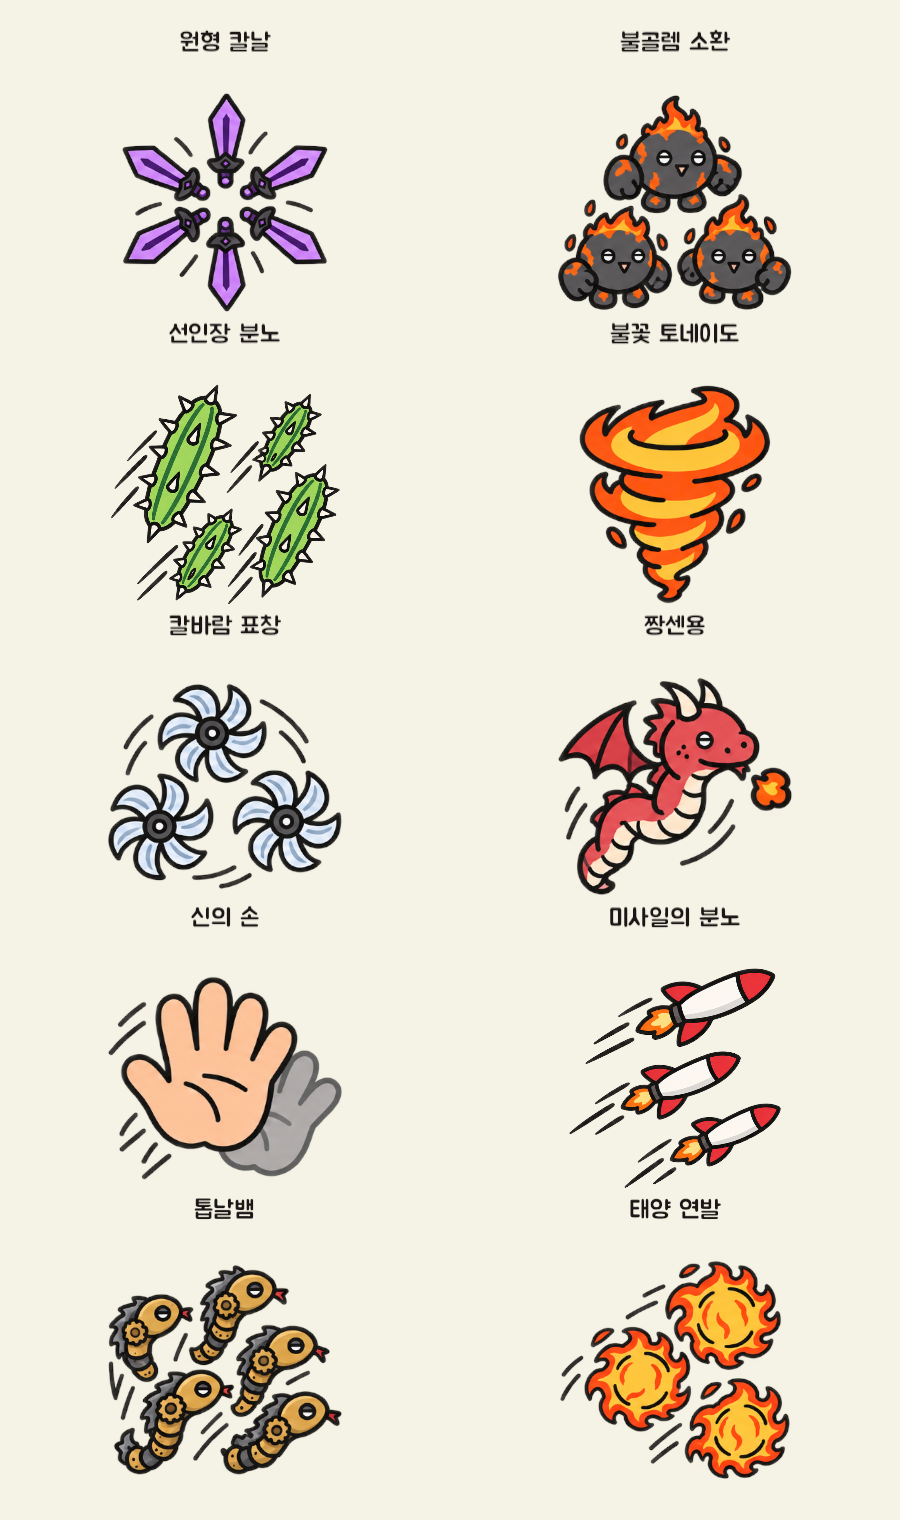
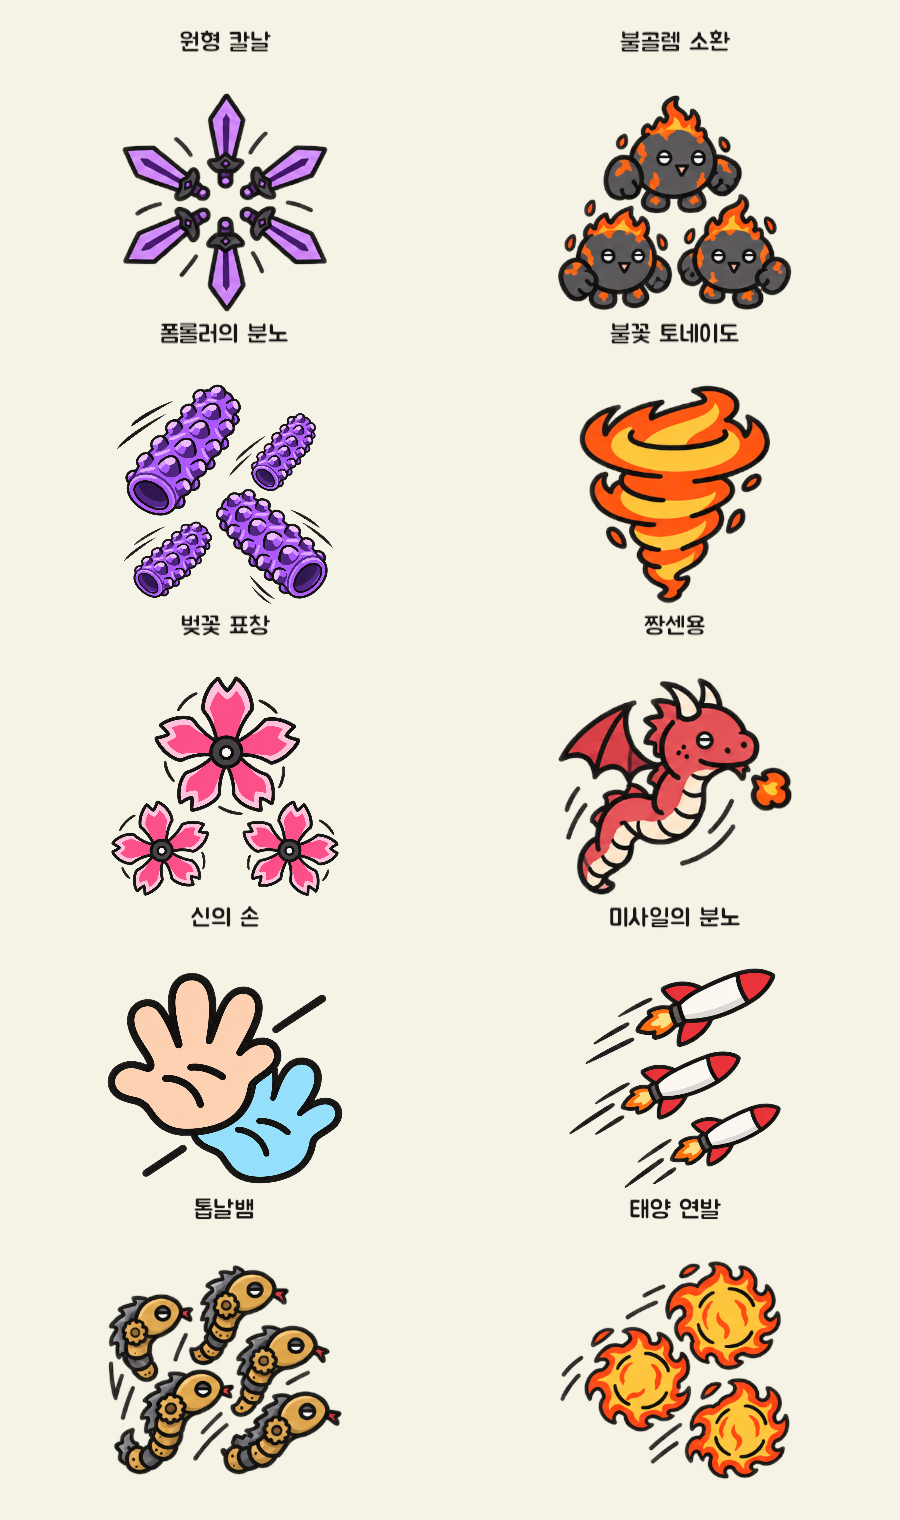
docs: record final foam roller choice and passing CI previews

Changed region(s): [[0.1244, 0.1855, 0.4044, 0.5875], [0.1244, 0.6184, 0.4044, 0.8039]]

diff --git a/Documentation/UI/ASCENSION.md b/Documentation/UI/ASCENSION.md
@@ -8,18 +8,18 @@
 
 | 등급 | 이름 | 동작 |
 | --- | --- | --- |
-| 근원 | 원형 칼날 | 강화된 보라색 칼 22개를 원형으로 0.04초 간격 발사 |
+| 근원 | 원형 칼날 | 강화된 보라색 칼 44개를 두 바퀴에 걸쳐 0.04초 간격 발사(바퀴당 22개) |
 | 근원 | 불골렘 소환 | 불골렘 10마리가 추적하고 내려찍기 |
-| 근원 | 선인장 분노 | 긴 삼각 가시가 돋은 얼굴 없는 선인장 4개가 몸통 옆면으로 굴러가며 관통. 긴 축은 유지하고 짧은 축만 굴림 변형 |
+| 근원 | 폼롤러의 분노 | 돌기가 돋은 보라색 폼롤러 4개가 옆면으로 굴러가며 관통. 동그란 입구가 보이는 최초 보라색 디자인. 긴 축은 유지하고 짧은 축만 굴림 변형 |
 | 근원 | 불꽃 토네이도 | 불꽃 모양 회오리 2컷 애니메이션, 별도 불꽃 파티클 없음 |
-| 근원 | 칼바람 표창 | 강한 칼날 모양의 표창 18개 방사형 공격, 초당 1회전(기존 2.5회전의 40%) |
+| 근원 | 벚꽃 표창 | 다섯 장의 분홍색 꽃잎 모양 표창 18개 방사형 공격, 초당 1회전 |
 | 초월 | 짱센용 | 꼬마용 1.7배 크기, 날개 방향 수정 |
-| 초월 | 신의 손 | 손바닥 3개 낙하, 공중 손바닥 잔상. 지면에는 다섯 손가락과 손바닥 윤곽대로 파인 갈색 흙 구덩이, 불꽃 없음 |
+| 초월 | 신의 손 | 손바닥 3개 낙하, 공중·착지 순간의 하늘색 손바닥 잔상. 지면에는 다섯 손가락과 손바닥 윤곽대로 파인 갈색 흙 구덩이, 불꽃 없음 |
 | 초월 | 미사일의 분노 | 빨간 탄두·빨간 날개·흰 몸통의 미사일 13발 순차 발사, 기존 크기 1.5배, 접촉 시 범위 폭발 |
 | 초월 | 톱날뱀 | 황동 기어·리벳·강철 톱날의 스팀펑크 뱀 5마리 |
 | 초월 | 태양 연발 | 얼굴 없는 이글거리는 태양 3개, 각각 7회 튕김 |
 
-톱날뱀은 기존 `chimera_brothers` 저장 ID를 유지해 보유·강화 정보를 이어받는다.
+톱날뱀은 `chimera_brothers`, 폼롤러는 `cactus_rage`, 벚꽃 표창은 기존 표창 저장 ID·능력 키를 유지해 보유·강화·장착 정보를 이어받는다.
 
 ## 동료
 
@@ -40,10 +40,10 @@
 ## 스테이지와 보스
 
 - 돌파 ON: 표시 스테이지 1~99는 20마리, 100~299는 50마리, 300부터 100마리 처치 후 보스 등장.
-- 보스 제한 시간 10초. 스테이지 텍스트 아래·돌파 버튼 위에 체력바와 파란 타이머바를 함께 표시한다. 일시정지 중 타이머도 멈춘다.
+- 보스 제한 시간 10초. 스테이지 텍스트 아래·돌파 버튼 위에 손그림 체력바와 파란 타이머바를 함께 표시한다. 기존 몬스터의 `HealthBarFrame`과 중립색 질감 채움 `BossGaugeFill`을 사용한다. 일시정지 중 타이머도 멈춘다.
 - 시간 초과 또는 보스전 사망 시 같은 스테이지에서 처치 수 0부터 재시작하고 돌파 ON을 유지한다. 일반 사망도 스테이지나 처치 수가 내려가지 않는다.
 - 일반 몬스터는 대시하지 않는다. 보스는 표시 100스테이지부터 대시하며 속도 8, 지속 시간 0.9초로 기존 이동 거리의 3배다.
-- 돌파 OFF의 일반 파밍 주기는 100마리를 유지한다.
+- 돌파 OFF의 일반 파밍 주기는 100마리를 유지한다. ON 버튼은 밝은 연두색으로 은은하게 맥동하며, OFF나 던전에서는 애니메이션을 멈춘다.
 
 일반 안내와 전투력 변화 토스트는 화면 높이 70% 부근에 표시하며 서로 86 단위 간격을 둔다.
 
@@ -59,17 +59,20 @@
 
 이미지는 내장 `image_gen`으로 생성·편집했다. [확장 이미지 프롬프트](ascension-refinement-prompts.json), [가시 선인장·흰 미사일·손바닥 구덩이와 썸네일 프롬프트](skill-impact-refinement-prompts.json)에 전체 지시를 기록했다.
 
-- `AscensionSkillRefinements.png`: 표창·토네이도 2컷·태양 전투 아트. 사용하지 않는 이전 머리·선인장 셀은 런타임에서 참조하지 않는다.
-- `SkillSpikyCactus.png`, `SkillWhiteMissile.png`, `SkillPalmCrater.png`: 새 선인장·미사일·손바닥 구덩이 전투 아트.
-- `SkillThumbsCactusMissile.png`: 네 개의 가시 선인장과 세 발의 흰 미사일 썸네일. 기존 썸네일 레이아웃에서 해당 두 아이콘만 교체한다.
+- `AscensionSkillRefinements.png`: 토네이도 2컷·태양 전투 아트. 이전 머리·선인장·칼바람 표창 셀은 런타임에서 참조하지 않는다.
+- `SkillFoamRoller.png`, `SkillCherryShuriken.png`, `SkillSkyPalm.png`: 최초 보라색 폼롤러·벚꽃 표창·하늘색 손 잔상. [생성·수정 프롬프트](cherry-foam-palm-prompts.json).
+- `SkillWhiteMissile.png`, `SkillPalmCrater.png`: 미사일·손바닥 구덩이 전투 아트.
+- `SkillThumbFoamRoller.png`, `SkillThumbCherryShuriken.png`, `SkillThumbSkyPalm.png`: 현재 폼롤러·벚꽃·신의 손 썸네일. 미사일은 `SkillThumbsCactusMissile.png`의 미사일 셀을 사용한다.
 - `SkillPurpleBlade.png`: 보라색 전투 칼날.
 - `SkillThumbsAscension.png`: 신규 스킬 썸네일 10개와 톱날뱀 머리·몸통 전투 아트. 명시적 영역으로 잘림을 방지한다.
 - 기존 동료와 불골렘 아틀라스를 유지한다. [동료 미리보기](AscensionCompanionsPreview.png).
 - 실제 Unity 렌더: [스킬 썸네일](AscensionSkillThumbnailsPreview.png), [보스 체력·타이머](BossChallengePreview.png), [보상 후광](RewardHaloPreview.png), [보상 축하 파티클](RewardCelebrationPreview.png).
-- 전투 수정 렌더: [옆면으로 구르는 선인장](CactusRollingPreview.png), [손바닥 모양으로 파인 바닥](PalmCraterPreview.png), [빨간 탄두·날개와 흰 몸통 미사일](MissileRagePreview.png).
+- 전투 수정 렌더: [옆면으로 구르는 폼롤러](FoamRollerPreview.png), [손바닥 모양으로 파인 바닥](PalmCraterPreview.png), [빨간 탄두·날개와 흰 몸통 미사일](MissileRagePreview.png).
 
 검증은 로컬 Unity 조작 없이 GitHub Actions Unity PlayMode로 수행한다. `ascension` 범위는 스킬 전투·아트, 카탈로그·확률·저장, 스테이지 경계·보스 시간·사망·대시, 밸런스 자동 저장과 기존 전투 검사를 포함한다. 결과 XML 및 실제 Unity 렌더는 CI 아티팩트에 저장한다.
 
 2026-09-24 검증: [확장 검사 38개](https://github.com/kuzuni/20260920/actions/runs/35934505959) 중 37개 통과 후 보스 종료 순간의 HUD 갱신 문제를 수정했다. 수정 커밋 `521e8ee`의 [보스·진행·보상 관련 재검증 7개](https://github.com/kuzuni/20260920/actions/runs/35935847237)는 전부 통과했다.
 
-이어 커밋 `3a5176f`의 [전투 아트·굴림·회전·버프·보상 수정 검사 10개](https://github.com/kuzuni/20260920/actions/runs/35964294216)가 모두 통과했다. `ascension-refinements` 범위는 옆면 굴림, 표창 초당 1회전, 손바닥 지면 이미지와 고정 위치, 스킬 썸네일·개별 전투 렌더, 미사일 접촉 폭발, 버프 +100%와 저장·만료, 회전 후광과 커진 파티클, 기존 오이·메테오 동작을 확인한다. 스킬·보상 미리보기는 이 최신 실행의 실제 Unity 렌더다.
+이어 커밋 `3a5176f`의 [전투 아트·굴림·회전·버프·보상 수정 검사 10개](https://github.com/kuzuni/20260920/actions/runs/35964294216)가 모두 통과했다. `ascension-refinements` 범위는 옆면 굴림, 표창 초당 1회전, 손바닥 지면 이미지와 고정 위치, 스킬 썸네일·개별 전투 렌더, 미사일 접촉 폭발, 버프 +100%와 저장·만료, 회전 후광과 커진 파티클, 기존 오이·메테오 동작을 확인한다. 보상·미사일·손바닥 구덩이 미리보기는 이 실행의 실제 Unity 렌더다.
+
+최종 커밋 `fce0b2f`의 [폼롤러·벚꽃 표창·하늘색 손 잔상·두 바퀴 칼날·보스 HUD 검사 10개](https://github.com/kuzuni/20260920/actions/runs/35967276770)는 모두 통과했다. `ascension-cherry`는 폼롤러 4개 옆면 굴림, 표창 회전, 손 잔상과 바닥 자국, 썸네일·개별 스킬 렌더, 칼날 44발과 두 바퀴 발사 간격, 해제·초기화, 보스 재시작, 돌파 ON 맥동과 OFF 정지, 등급별 피해량 순서를 확인한다. 폼롤러는 사용자 최종 선택에 따라 원형 입구가 보이는 최초 보라색 디자인으로 복원했다. 스킬 썸네일·폼롤러·보스 HUD 및 [벚꽃 표창](CherryShurikenPreview.png) 미리보기는 이 실행에서 캡처했다.

diff --git a/Documentation/skill-companion-catalog.md b/Documentation/skill-companion-catalog.md
@@ -36,11 +36,11 @@
 | 신화 | 메테오 | 회전하는 빨간 운석 3개가 1초 간격으로 떨어집니다. 불꽃과 잔상을 남기고 폭발하며 바닥에 충돌 자국을 남깁니다. |
 | 신화 | 붉은 폭풍 | 빨간 구름이 적을 빠르게 추적하며 붉은 번개로 공격합니다. 적중 지점에 작은 폭발을 일으켜 주변 적에게도 추가 피해를 줍니다. |
 | 신화 | 골렘 소환 | 골렘 5마리를 소환합니다. 10초 동안 적을 따라가 두 주먹을 들어 내려찍으며 먼지를 퍼뜨립니다. 적중 지점에 작은 폭발을 일으켜 주변 적에게도 추가 피해를 줍니다. |
-| 근원 | 원형 칼날 | 강력한 보라색 칼날 22개를 0.04초 간격으로 빠르게 원형 발사합니다. |
+| 근원 | 원형 칼날 | 강력한 보라색 칼날 44개를 0.04초 간격으로 두 바퀴 돌며 원형 발사합니다. |
 | 근원 | 불골렘 소환 | 불골렘 10마리가 10초 동안 적을 추적합니다. 불꽃 주먹으로 내려쳐 주변 적에게도 화염 피해를 줍니다. |
-| 근원 | 선인장 분노 | 얼굴 없는 기다란 선인장 4개를 오이처럼 굴려 관통 공격합니다. |
+| 근원 | 폼롤러의 분노 | 돌기가 돋은 보라색 폼롤러 4개를 옆면으로 굴려 관통 공격합니다. |
 | 근원 | 불꽃 토네이도 | 불꽃 모양의 두 컷 회오리가 적을 추적하며 연속 공격합니다. |
-| 근원 | 칼바람 표창 | 날카로운 대형 칼바람 표창 18개를 전 방향으로 던집니다. |
+| 근원 | 벚꽃 표창 | 분홍색 꽃잎 모양의 벚꽃 표창 18개를 전 방향으로 던집니다. |
 | 초월 | 짱센용 | 꼬마 용보다 1.7배 큰 용을 소환합니다. 6초 동안 전진하며 강력한 불꽃을 내뿜습니다. |
 | 초월 | 신의 손 | 거대한 손바닥이 잔상을 남기며 떨어져 공격하고 바닥에 손바닥 자국을 남깁니다. |
 | 초월 | 미사일의 분노 | 1.5배 커진 유도 미사일 13발을 순차 발사합니다. 적에 닿으면 주변을 폭발 공격합니다. |

diff --git a/Documentation/CI.md b/Documentation/CI.md
@@ -93,3 +93,7 @@ GitHub 서버가 아니라 화면 없는 로컬 검증을 원할 경우 Unity Te
 - `DoodleIdleNewSkillTests`: 기본 공격 정지/동료 유지, 번개 3명, 클로 5명×2, 토네이도 추적 다단히트, 골렘 5마리 걷기/공격/일시정지/만료, 돌/덤벨 순차 발사, 빨간검 복구, 메테오 회전/방향 고정 월드 불꽃/폭발/바닥 자국.
 - `DoodleIdleLatestUiTests`: 공격력 퍼센트 피해/치명타/세 유물 분리 적용, 상세 피해·DPS, 버프 바로가기, 채팅 크기, 지갑 흡수/중복 지급 방지, 종류별 단가, 순차 결과/스킵, 30레벨 확률 미리보기의 상태 불변.
 - 신규 서버 스크린샷 접두사: `expansion-` 및 `latest-`. 기존 전체 UI 비율 검증도 계속 실행한다.
+
+## 2026-09-24 스킬 아트·보스 HUD 후속 검증
+
+`fce0b2f`의 `ascension-cherry` [GitHub Actions 실행](https://github.com/kuzuni/20260920/actions/runs/35967276770): Unity PlayMode 10/10 통과(91.18초). 폼롤러·벚꽃 표창·손 잔상, 칼날 두 바퀴 44발, 스킬 해제·초기화, 보스 진행, 돌파 버튼 맥동, 등급별 피해량을 검사했다. [변경 내용과 실제 렌더](UI/ASCENSION.md)에 기록했다.
